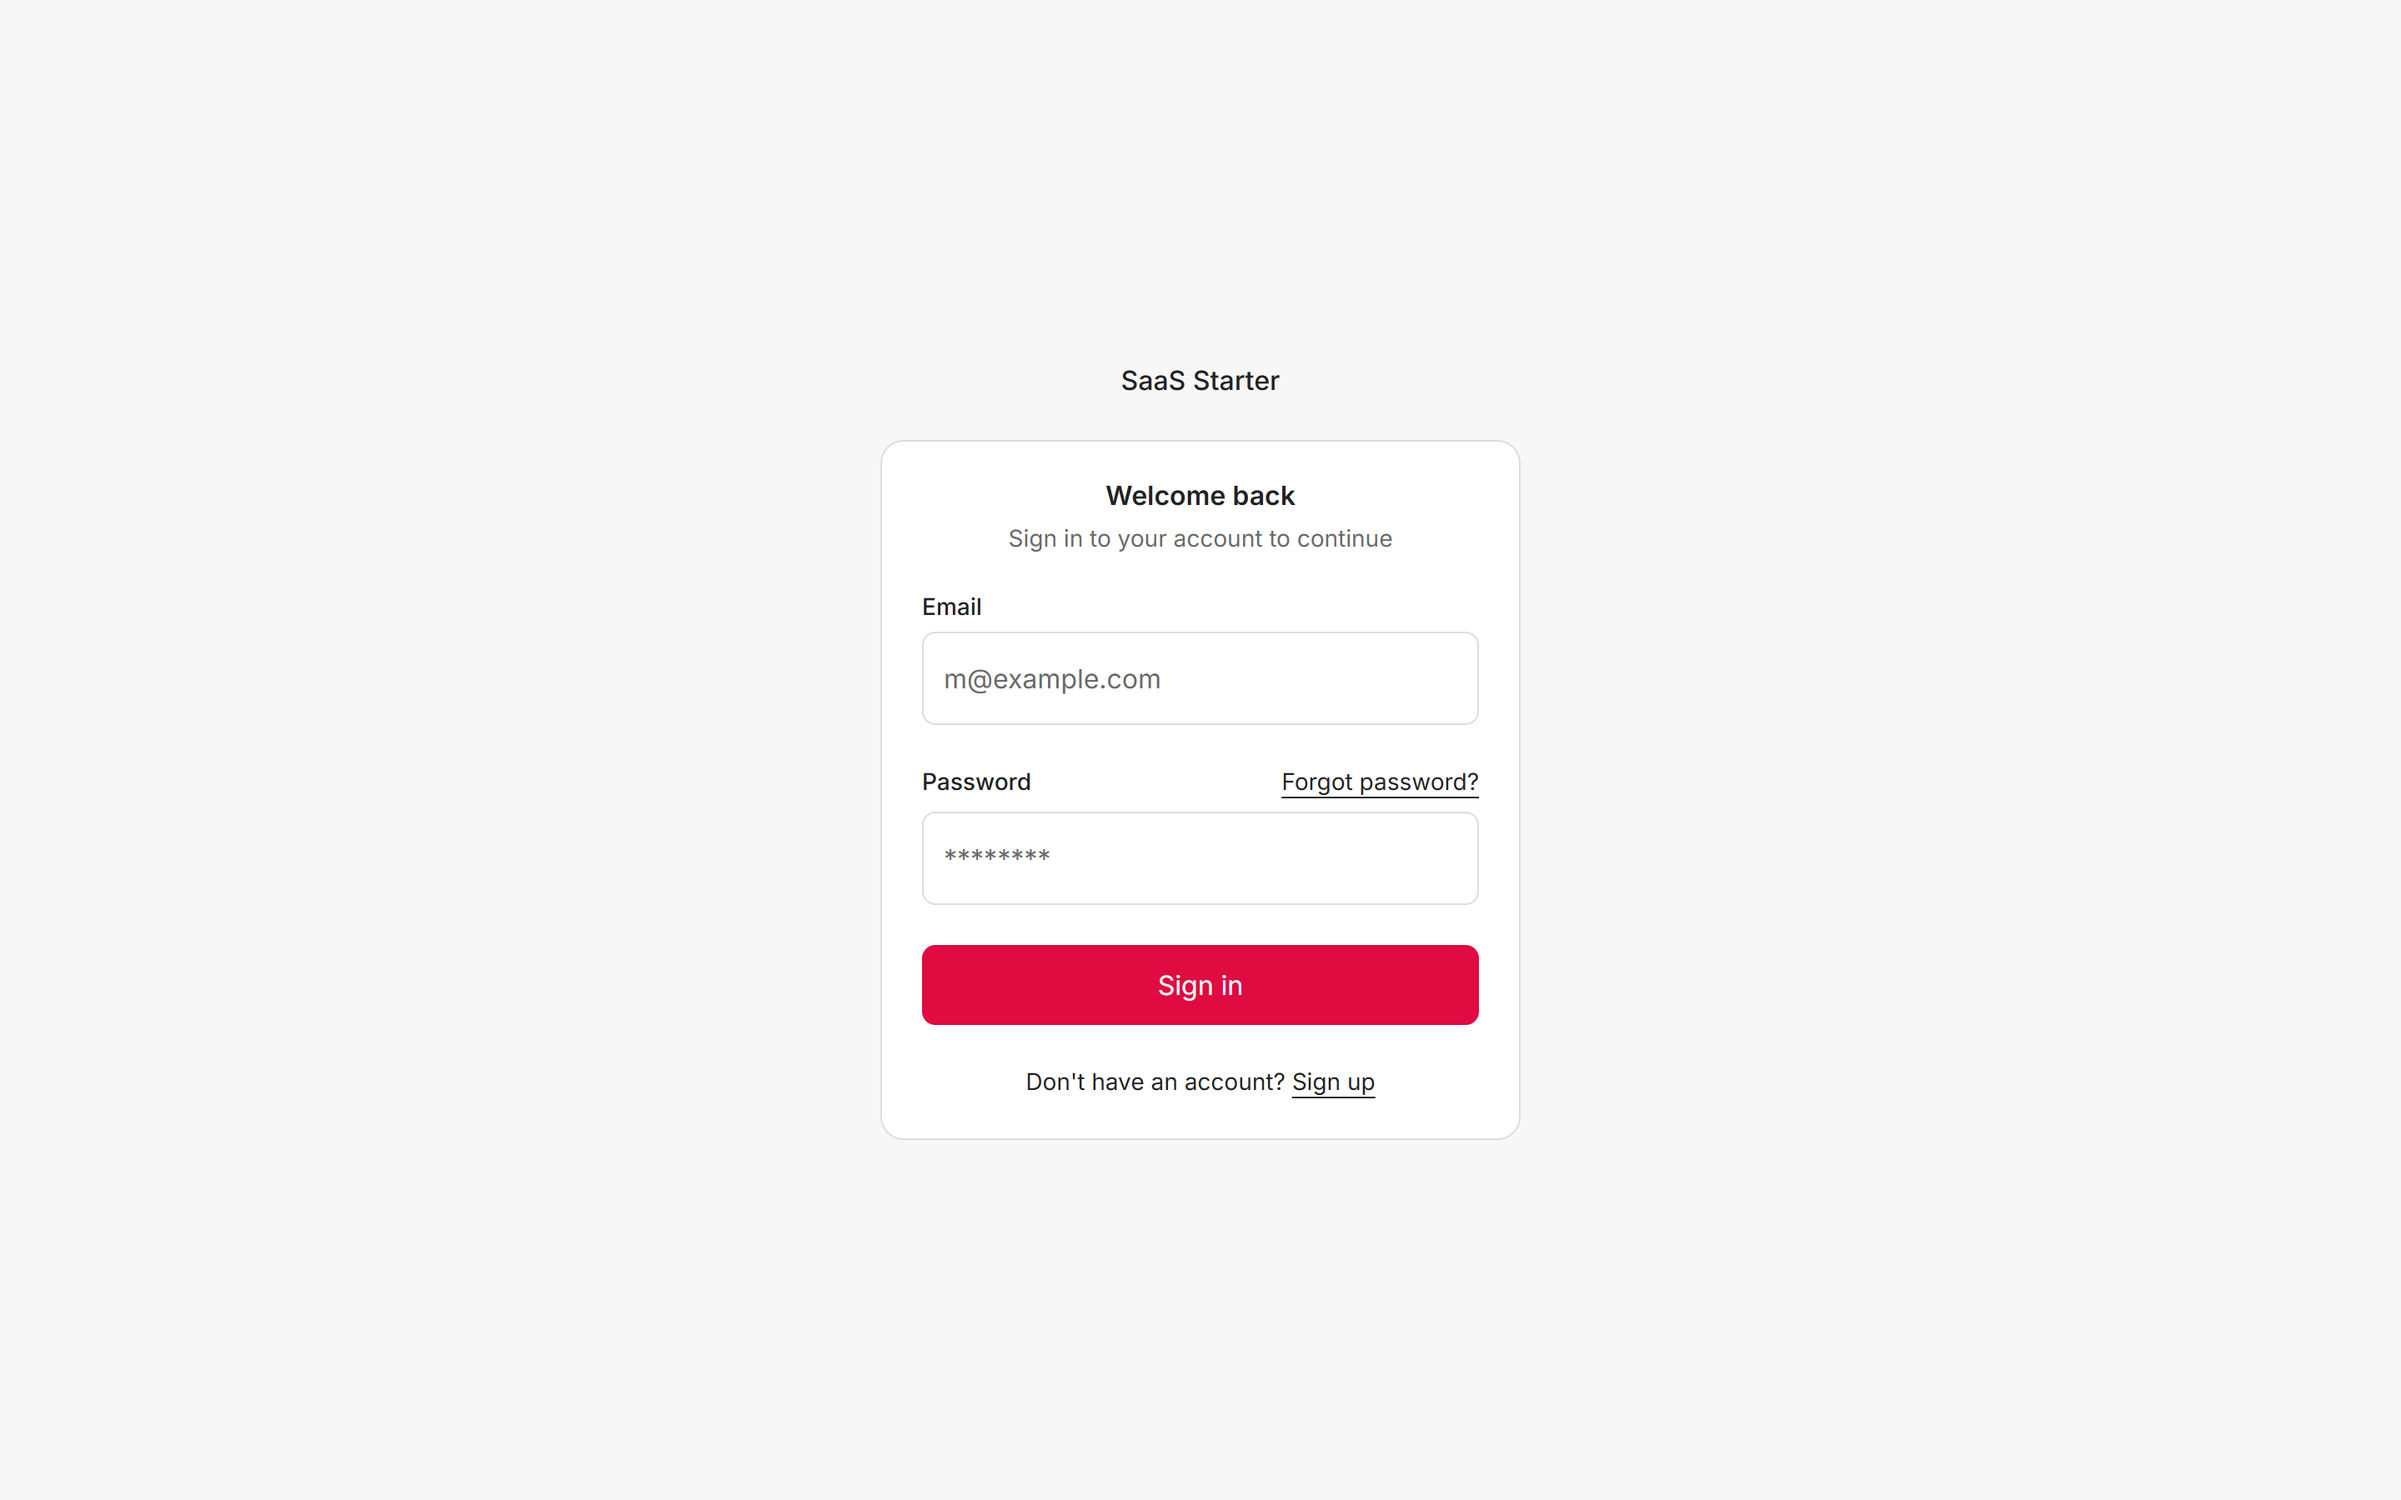
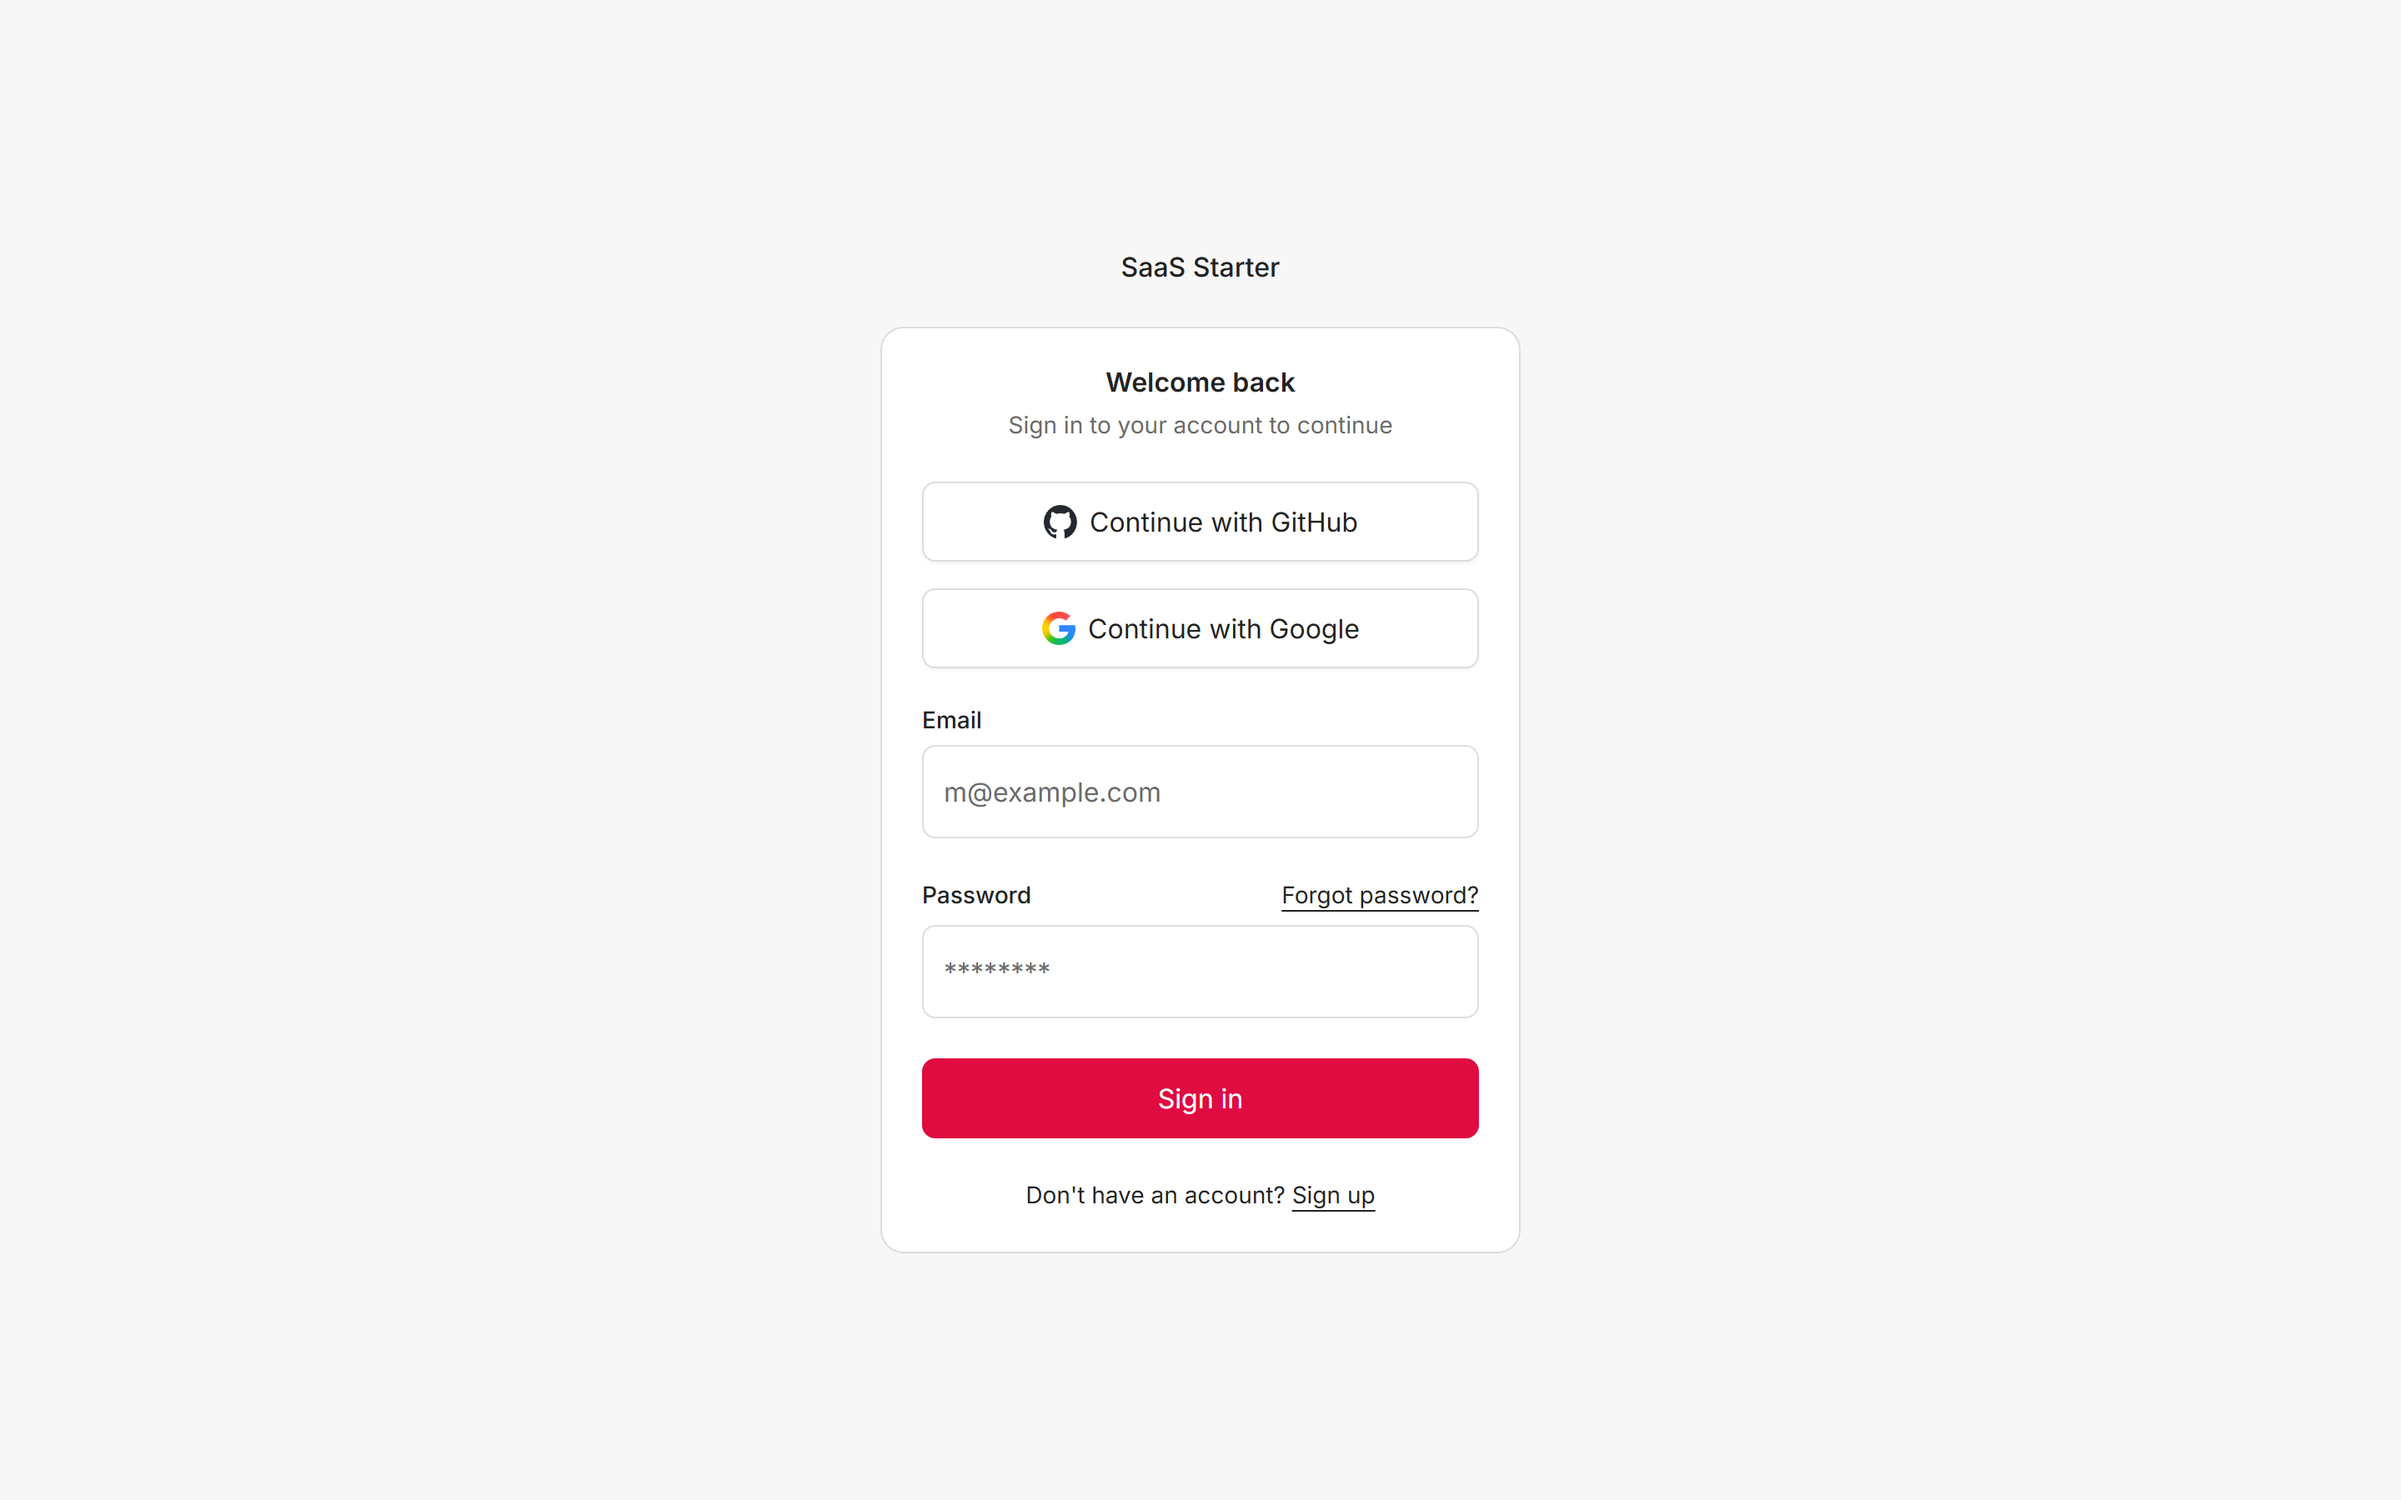
Update README: add screenshots for sign-in, dashboard, posts, and background jobs

diff --git a/README.md b/README.md
@@ -30,38 +30,38 @@ A production-ready Next.js SaaS template with everything you need to build and s
 <table>
   <tr>
     <td width="50%" valign="top">
+      <b>Sign in</b><br>
+      Email and password plus Google and GitHub, powered by Better Auth.<br>
+      <img src="docs/public/screenshots/login.png" alt="Sign-in form with GitHub and Google buttons">
+    </td>
+    <td width="50%" valign="top">
       <b>Dashboard</b><br>
       Collapsible sidebar and getting-started cards, rendered on the server.<br>
       <img src="docs/public/screenshots/dashboard.png" alt="Dashboard with sidebar navigation and getting-started cards">
     </td>
+  </tr>
+  <tr>
     <td width="50%" valign="top">
       <b>Posts (CRUD)</b><br>
       Create, edit and delete with Prisma, tRPC and automatic cache updates.<br>
       <img src="docs/public/screenshots/posts.png" alt="Posts demo: a CRUD list backed by Prisma and tRPC">
     </td>
-  </tr>
-  <tr>
     <td width="50%" valign="top">
       <b>AI chat</b><br>
       Streaming answers with Markdown, stop, retry and edit; refreshing mid-stream resumes the reply.<br>
       <img src="docs/public/screenshots/ai-chat.png" alt="AI chat demo with a streamed Markdown answer">
     </td>
+  </tr>
+  <tr>
     <td width="50%" valign="top">
       <b>Background jobs</b><br>
       Durable multi-step Inngest jobs with live run status streamed to the page, no polling.<br>
       <img src="docs/public/screenshots/background-jobs.png" alt="Background jobs demo with a completed and a running Inngest run">
     </td>
-  </tr>
-  <tr>
     <td width="50%" valign="top">
       <b>Pagination</b><br>
       Searchable, sortable and filterable table with its state kept in the URL.<br>
       <img src="docs/public/screenshots/pagination.png" alt="Paginated, sortable table of users">
-    </td>
-    <td width="50%" valign="top">
-      <b>Sign in</b><br>
-      Email and password plus Google and GitHub, powered by Better Auth.<br>
-      <img src="docs/public/screenshots/login.png" alt="Sign-in form">
     </td>
   </tr>
   <tr>
